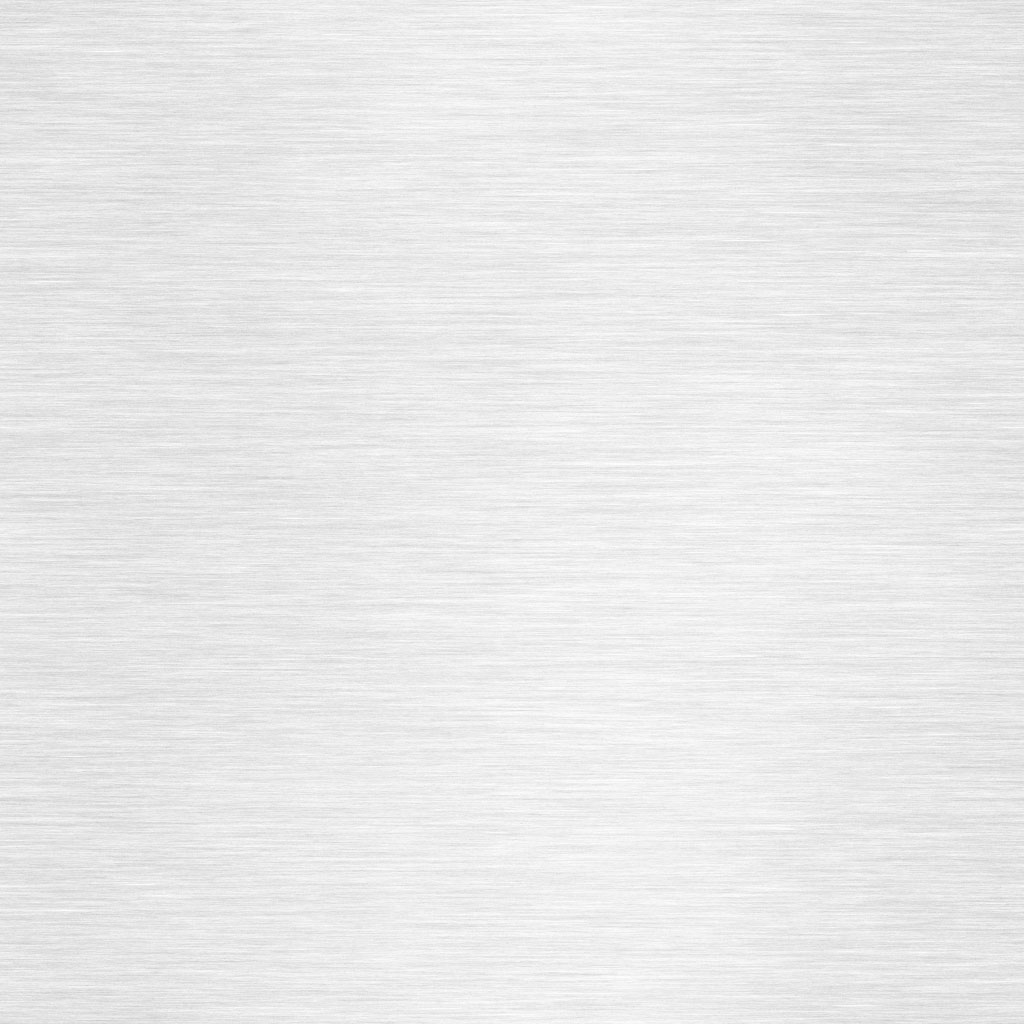
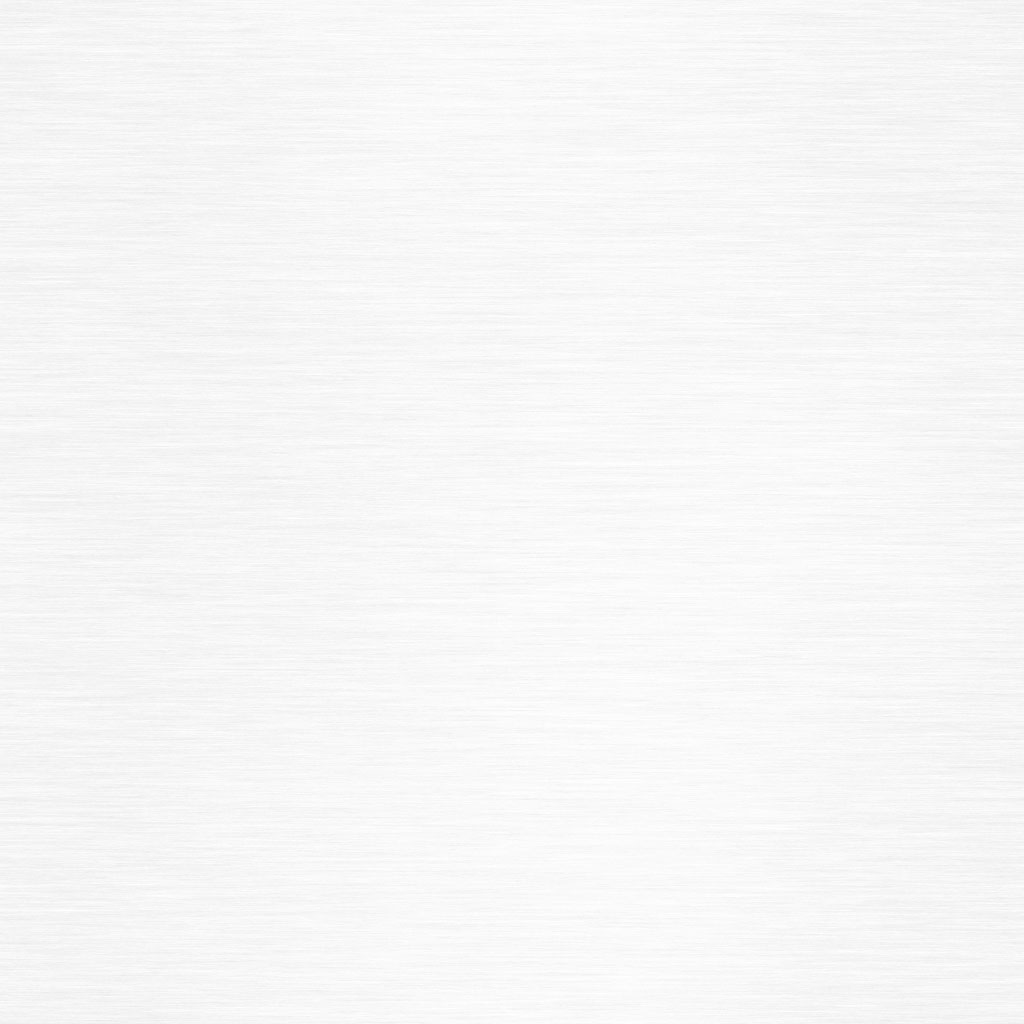
final style

diff --git a/app/assets/stylesheets/application.scss b/app/assets/stylesheets/application.scss
@@ -24,9 +24,9 @@
 
 body {
 	/* background-image:url("/images/webtreats_metal_4-1024px.jpg"); */
-	/* background-image:url("/images/webtreats_metal_4-1024px-grey.jpg"); */
+	background-image:url("/images/webtreats_metal_4-1024px-grey.jpg");
 	/* background-image:url("/images/webtreats_metal_4-512px.jpg"); */
-	background: #eee;
+	/* background: #eee; */
 }
 
 

diff --git a/app/assets/javascripts/header.js b/app/assets/javascripts/header.js
@@ -8,13 +8,11 @@ $( document ).on( 'page:update', function (evt) {
 	});
 
 	$('.owl2').owlCarousel({
-		items: 2,
-		nav: true,
-		navContainer: '.catalogNav',
+		items: 1,
+		// nav: true,
+		// navContainer: '.catalog-nav',
 		dots: false,
 		margin: 10,
-		// autoplay: true,
-		// autoplayTimeout: 8000,
 		loop: true
 	});
 });

diff --git a/app/assets/stylesheets/header.scss b/app/assets/stylesheets/header.scss
@@ -1,10 +1,17 @@
 $navbar-height: 75px;
+
 body {
 	padding-top: $navbar-height;
 }
 
+#catalog {
+	position: absolute;
+	top: $navbar-height + 15px;
+}
+
 .navbar#header {
 	opacity: 0.96;
+
 	.navbar-header {
 		height: $navbar-height;
 		.navbar-toggle {

diff --git a/app/assets/stylesheets/products.scss b/app/assets/stylesheets/products.scss
@@ -3,3 +3,8 @@
 .product-bottom {
 	padding-top: 80px;
 }
+
+.well {
+	font-size: 1.22em;
+	line-height: 1.5em;
+}

diff --git a/app/assets/stylesheets/catalog.scss b/app/assets/stylesheets/catalog.scss
@@ -1,5 +1,7 @@
 #catalog {
 	display: none;
+	z-index: 5;
+	background: #f8f8f8;
 	text-align: center;
 
 	img {
